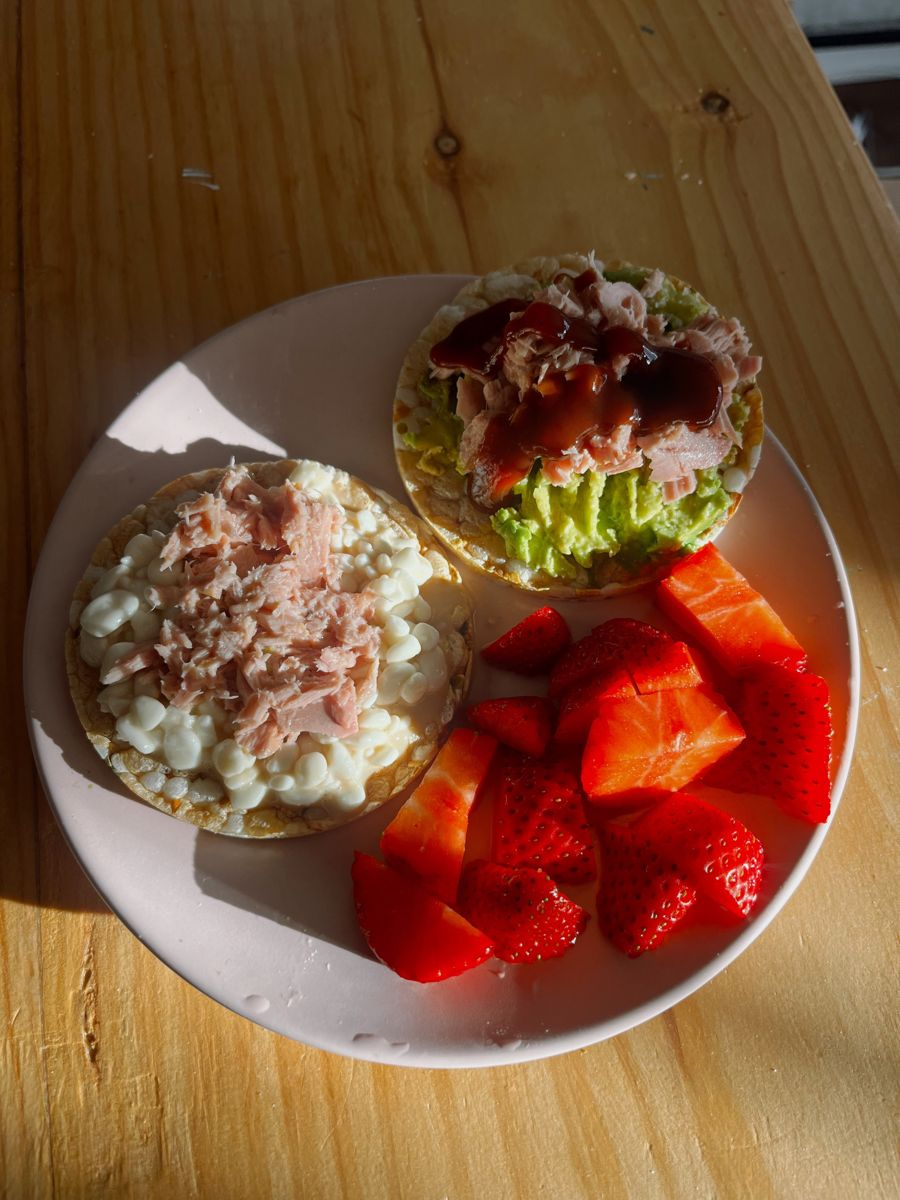
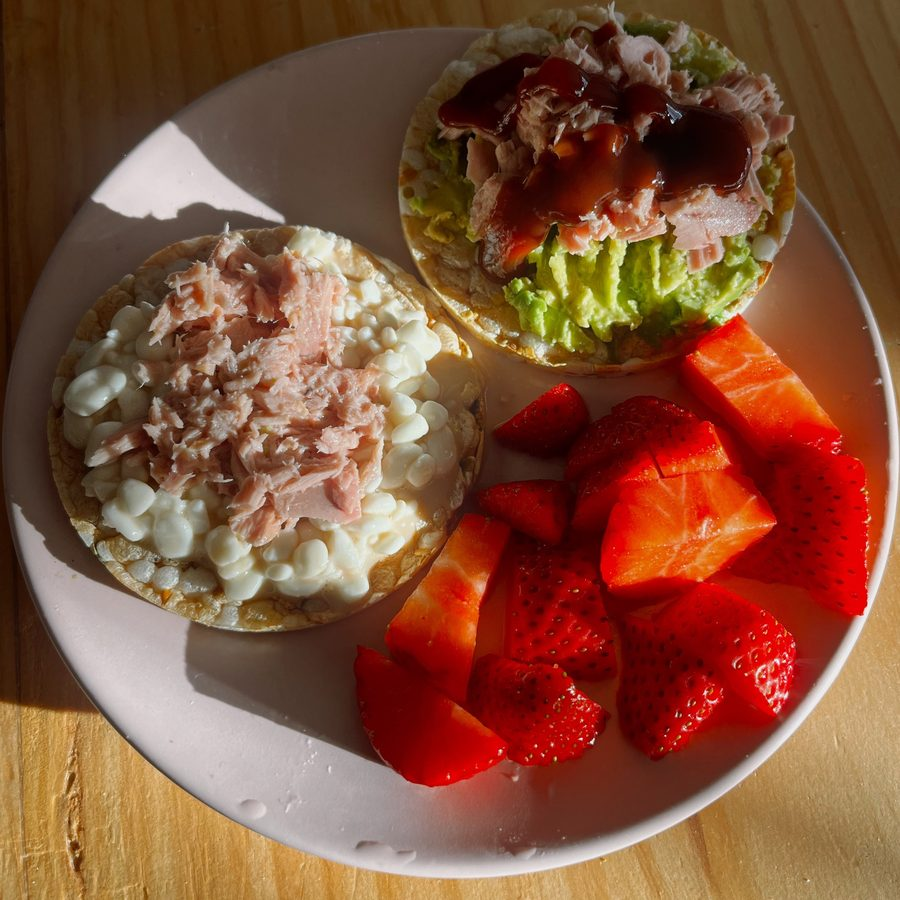
Fotos de recetas recortadas al plato en cuadrado y nueva captura de Nutrición
Claude-Session: https://claude.ai/code/session_01YbzsCEJorLLnqfp1NVcty4

diff --git a/src/App.jsx b/src/App.jsx
@@ -1013,7 +1013,7 @@ h2{font-size:15px;font-weight:700;margin:28px 0 12px}
 .shop li{padding:10px 0;border-top:1px solid var(--ln);display:flex;flex-direction:column;gap:3px}
 .shop li b{font-size:14px}
 .shop li span{font-size:13px;color:var(--dm);line-height:1.45}
-.rphoto{width:100%;aspect-ratio:16/10;object-fit:cover;border-radius:14px;display:block;margin-bottom:12px;border:1px solid var(--ln)}
+.rphoto{width:100%;aspect-ratio:1/1;object-fit:cover;border-radius:14px;display:block;margin-bottom:12px;border:1px solid var(--ln)}
 .fin{position:fixed;inset:0;z-index:38;background:#000;display:flex;flex-direction:column;align-items:center;text-align:center;overflow-y:auto;overflow-x:hidden;padding:calc(30px + env(safe-area-inset-top)) 22px calc(24px + env(safe-area-inset-bottom))}
 .fin-rays{position:absolute;left:50%;top:22%;width:720px;height:720px;margin:-360px 0 0 -360px;background:repeating-conic-gradient(from 0deg,rgba(212,139,146,.13) 0deg 7deg,transparent 7deg 20deg);border-radius:50%;-webkit-mask:radial-gradient(circle,#000 18%,transparent 62%);mask:radial-gradient(circle,#000 18%,transparent 62%);pointer-events:none}
 .fin-stage{position:relative;width:230px;height:250px;display:flex;align-items:center;justify-content:center;flex-shrink:0}
@@ -2530,7 +2530,7 @@ function EditForm({ table, row, isNew, content, onSave, onDelete, onCancel, medi
         </Field>}
       </>}
 
-      {table === "recipes" && !isNew && <Field label="Foto del plato" hint="Sale arriba de la receta en Nutrición. Mejor en horizontal.">
+      {table === "recipes" && !isNew && <Field label="Foto del plato" hint="Sale arriba de la receta en Nutrición, en cuadrado. Mejor desde arriba y con el plato centrado.">
         {recImg(media, r.id) ? <img className="rphoto" src={recImg(media, r.id)} alt="" /> : <div className="hint">Aún no tiene foto.</div>}
         <div className="chips" style={{ marginTop: 8 }}>
           <MediaPicker label={media[`rec:${r.id}`] ? "Cambiar foto" : "Subir foto"} accept="image/*" onPick={(f) => uploadMedia(`rec:${r.id}`, f)} onError={setErr} />

diff --git a/marketing/crop_food.py b/marketing/crop_food.py
@@ -1,0 +1,20 @@
+from PIL import Image, ImageOps
+import os
+U="/root/.claude/uploads/3bae07ba-c8c3-5f0e-adb3-78f0953fb194/"
+# (cx, cy, lado) en un marco de 1500x2000
+C={"902e81a0":("rl01",740,985,1240),"19c41049":("r008",750,975,1500),"810b9908":("rl02",725,1130,1300),
+"1167a5d1":("rl03",740,1025,1380),"cac3019c":("rl04",750,1100,1500),"62762dc7":("rl05",740,1050,1460),
+"22a1e32e":("rl06",725,1150,1250),"d0ebbbfd":("rl07",740,1070,1440),"bfc31c40":("rl08",690,1330,1250),
+"6daac3d4":("r029",900,1500,1000),"1b1eae82":("rl09",735,1115,1400),"bcadf144":("rl10",760,1010,1400),
+"e955c753":("rl11",730,1130,1460),"f5fa5ac9":("rl12",750,1150,1500),"f036b5ef":("rl13",785,990,1430),
+"d04c4ac7":("rl14",750,965,1500),"e50707bb":("rl15",700,1000,1500),"9cbde605":("rl16",735,970,1300),
+"6a496062":("rl17",800,1330,1300)}
+out="/home/claude/arc/public/recetas/"
+for k,(rid,cx,cy,s) in C.items():
+    im=ImageOps.exif_transpose(Image.open(U+k+"-image.jpg")).convert("RGB")
+    w,h=im.size; fx=w/1500; fy=h/2000
+    cx,cy,sx=cx*fx,cy*fy,s*fx
+    l=max(0,min(w-sx,cx-sx/2)); t=max(0,min(h-sx,cy-sx/2))
+    im=im.crop((int(l),int(t),int(l+sx),int(t+sx))).resize((900,900),Image.LANCZOS)
+    im.save(out+rid+".jpg",quality=82,optimize=True,progressive=True)
+print(Image.open(U+"902e81a0-image.jpg").size)
